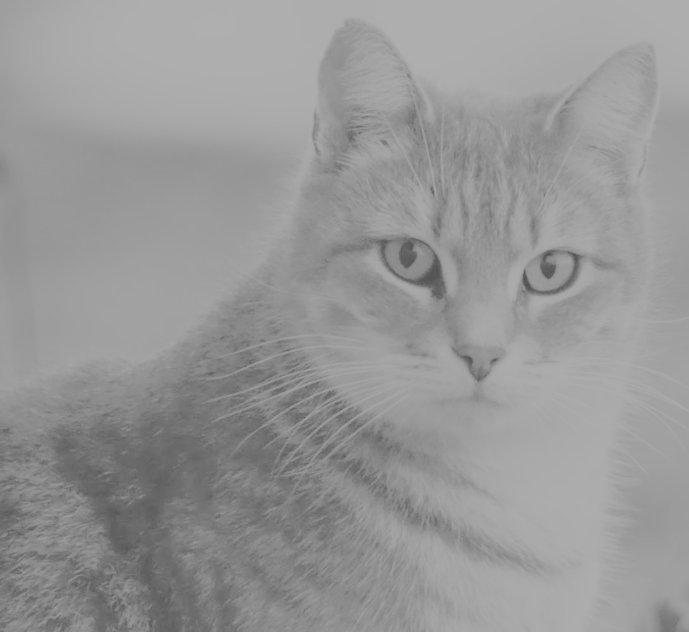
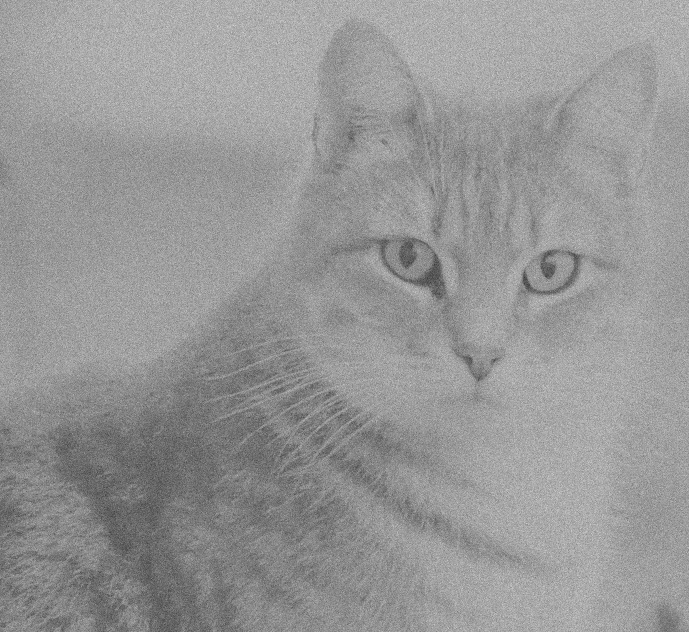
Solution and data

diff --git a/02_Exercise/otsu.py b/02_Exercise/otsu.py
@@ -14,40 +14,64 @@ def load_image(path: str) -> np.ndarray:
 def compute_histogram(image: np.ndarray) -> np.ndarray:
     """Compute a grayscale histogram with 256 bins."""
     # ToDo: Implement actual histogram calculation.
-    histogram = np.np.zeros(0)
+    histogram, _ = np.histogram(image, bins=256, range=(0, 256))
     return histogram
 
 
-def p_helper(prob: np.ndarray, theta: int) -> tuple[float, float]:
+def p_helper(prob: np.ndarray, theta: int) -> tuple[float, float]: # Input probability must be from normalized histogram!
     """Compute class probabilities p0 and p1 for threshold theta."""
     # ToDo: Implement actual probability computation.
-    p0 = 0.0 # Sum of class 0 appearance in the histogram
-    p1 = 0.0 # Sum of class 1 appearance in the histogram
+    p0 = float(np.sum(prob[: theta + 1])) # Sum of class 0 appearance in the histogram
+    p1 = float(np.sum(prob[theta + 1 :])) # Sum of class 1 appearance in the histogram (p0 - 1)
     return p0, p1
 
 
 def mu_helper(prob: np.ndarray, theta: int, p0: float, p1: float) -> tuple[float, float]:
     """Compute class means mu0 and mu1 for threshold theta."""
     # ToDo: Implement actual mean computation.
-    mu0 = 0.0
-    mu1 = 0.0
+    values = np.arange(len(prob))
+
+    if p0 == 0 or p1 == 0:
+        return 0.0, 0.0
+
+    mu0 = float(np.sum(values[: theta + 1] * prob[: theta + 1]) / p0)
+    mu1 = float(np.sum(values[theta + 1 :] * prob[theta + 1 :]) / p1)
+
     return mu0, mu1
 
 
 def otsu_threshold(histogram: np.ndarray) -> int:
     """Compute Otsu's threshold from a histogram."""
     # ToDo: Implement full Otsu algorithm.
-    prob = histogram.astype(np.float64)  # later normalize
-    max_variance = 0.0
+    prob = histogram.astype(np.float64) 
+    prob /= prob.sum() 
+
+    max_variance = -1.0
     best_threshold = 0
+
+    for theta in range(len(prob)):
+        p0, p1 = p_helper(prob, theta)
+
+        if p0 == 0.0 or p1 == 0.0:
+            continue
+
+        mu0, mu1 = mu_helper(prob, theta, p0, p1)
+
+        between_class_variance = p0 * p1 * (mu0 - mu1) ** 2
+
+        if between_class_variance > max_variance:
+            max_variance = between_class_variance
+            best_threshold = theta
+
     return int(best_threshold)
 
 
 def otsu_binarize(image: np.ndarray) -> tuple[np.ndarray, int]:
     """Binarize an image using Otsu's threshold."""
     # ToDo: Combine the helper functions to produce the binarized image.
-    theta = 0
-    binarized = np.zeros(0)
+    histogram = compute_histogram(image)
+    theta = otsu_threshold(histogram)
+    binarized = np.where(image > theta, 255, 0).astype(np.uint8)
     return binarized, theta
 
 

diff --git a/02_Exercise/noise.py b/02_Exercise/noise.py
@@ -21,24 +21,58 @@ def add_gaussian_noise(image: np.ndarray, mean: float = 0.0, sigma: float = 10.0
     # ToDo: Generate gaussian noise and add it to the image.
     # ToDo: Hint: Look at the options among np.random to generate the noise.
     # ToDo: Hint: Don't forget to clip the values.
+    noise = np.random.normal(mean, sigma, image.shape)
+    noisy = image.astype(np.float32) + noise
+    image = np.clip(noisy, 0, 255).astype(np.uint8)
     return image
 
 
 def add_salt_and_pepper_noise(image: np.ndarray, salt_prob: float = 0.01, pepper_prob: float = 0.01) -> np.ndarray:
     # ToDo: Generate random salt and pepper noise based on the provided probabilities.
     # ToDo: Hint: Look at the options among np.random to generate the noise.
+    if salt_prob < 0 or pepper_prob < 0 or salt_prob + pepper_prob > 1:
+        raise ValueError(
+            "salt_prob und pepper_prob müssen >= 0 sein und zusammen <= 1."
+        )
+
+    noisy = image.copy()
+
+    if image.ndim == 3:
+        # Für Farbbilder: ein Zufallswert pro Pixel
+        mask = np.random.random(image.shape[:2])
+
+        pepper_mask = mask < pepper_prob
+        salt_mask = mask > 1 - salt_prob
+
+        noisy[pepper_mask] = 0
+        noisy[salt_mask] = 255
+    else:
+        # Für Graustufenbilder
+        mask = np.random.random(image.shape)
+
+        noisy[mask < pepper_prob] = 0
+        noisy[mask > 1 - salt_prob] = 255
+    image = noisy.astype(np.uint8)
     return image
 
 
 def add_poisson_noise(image: np.ndarray) -> np.ndarray:
     # ToDo: Add poisson noise to the image.
     # ToDo: Hint: Look at the options among np.random to generate the noise.
+    image_float = image.astype(np.float32)
+    image_float = np.clip(image_float, 0, 255)
+
+    noisy = np.random.poisson(image_float)
+    image = np.clip(noisy, 0, 255).astype(np.uint8)
     return image
 
 
 def add_uniform_noise(image: np.ndarray, low: float = -20.0, high: float = 20.0) -> np.ndarray:
     # ToDo: Add uniform noise to the image, which is sampled uniformly from the available values.
     # ToDo: Hint: Look at the options among np.random to generate the noise.
+    noise = np.random.uniform(low, high, image.shape)
+    noisy = image.astype(np.float32) + noise
+    image = np.clip(noisy, 0, 255).astype(np.uint8)
     return image
 
 

diff --git a/02_Exercise/histogram_equalization.py b/02_Exercise/histogram_equalization.py
@@ -16,21 +16,38 @@ def compute_histogram(image: np.ndarray) -> np.ndarray:
     # ToDo: Create a histogram for the given image (256 values).
     # ToDo: Don't use functions like np.histogram.
     # ToDo: It is easier if you flatten your image first.
-    histogram = np.zeros(0)
+    histogram = np.zeros(256, dtype=int)
+
+    flat_image = image.flatten()
+
+    for value in flat_image:
+        histogram[value] += 1
+
     return histogram
 
 
 def compute_cdf(histogram: np.ndarray) -> np.ndarray:
     # ToDo: Compute the CDF.
     # ToDo: Don't forget to normalize it (turn it into a distribution).
-    cdf = np.zeros(0)
+    cdf = np.cumsum(histogram)
+    cdf = cdf / cdf[-1]
+
     return cdf
 
 
 def equalize_image(image: np.ndarray, cdf: np.ndarray) -> np.ndarray:
     # ToDo: Apply histogram equalization to the given image.
     # ToDo: Hint: Flatten the image first and reshape it again in the end.
-    equalized_image = np.zeros(0)
+    flat_image = image.flatten()
+
+    cdf_min = cdf[cdf > 0].min()
+
+    equalized_flat = ((cdf[flat_image] - cdf_min) / (1 - cdf_min)) * 255
+
+    equalized_flat = np.round(equalized_flat).astype(np.uint8)
+
+    equalized_image = equalized_flat.reshape(image.shape)
+    
     return equalized_image
 
 
